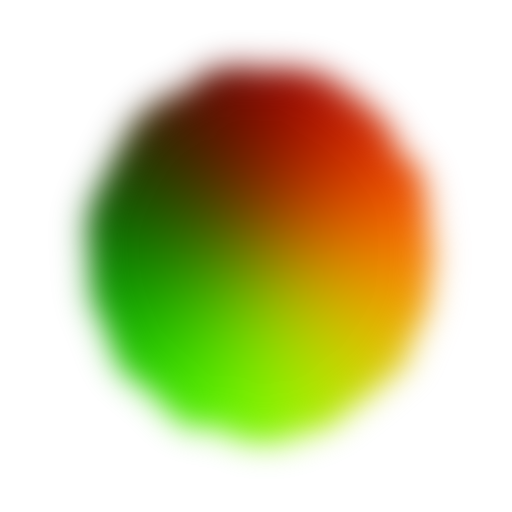
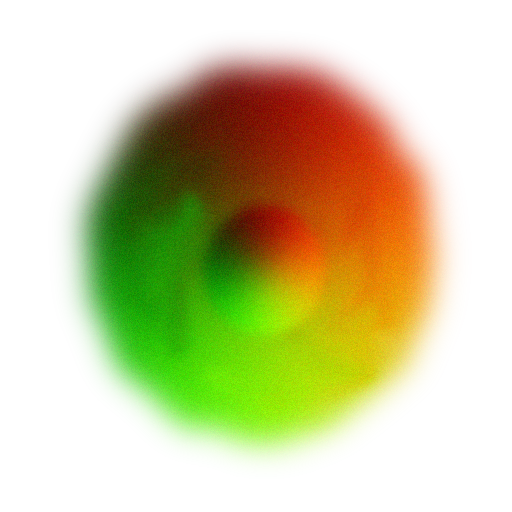
next iter

diff --git a/core/src/com/noname/wp/WaterParadiseEntry.java b/core/src/com/noname/wp/WaterParadiseEntry.java
@@ -11,39 +11,47 @@ import com.badlogic.gdx.graphics.g2d.SpriteBatch;
 import com.badlogic.gdx.graphics.glutils.FrameBuffer;
 import com.badlogic.gdx.graphics.glutils.ShaderProgram;
 import com.noname.wp.PostEffectRenderer.Renderer;
+import com.noname.wp.go.GameObjectsPool;
 import com.noname.wp.go.Meduze;
 import com.noname.wp.render.RenderKit;
 
 public class WaterParadiseEntry extends ApplicationAdapter {
-	private SpriteBatch batch;
-	private Meduze meduzeObj;
 	
-	class MeduzeMapRenderer implements Renderer{
+	private SpriteBatch batch;
+	
+	class GameObjectRenderer implements Renderer{
 		@Override
 		public void prerender(float dt,Batch batch) {
-			meduzeObj.setPosition(Gdx.input.getX(), Gdx.input.getY());
-			meduzeObj.draw(batch);
-			meduzeObj.update(dt);
+			GameObjectsPool.prerender(dt, batch);
 		}
 
 		@Override
 		public void underwater(float dt, Batch batch) {
-			
+			GameObjectsPool.underwater(dt, batch);
 		}
 
 		@Override
 		public void abovewater(float dt, Batch batch) {
-
+			GameObjectsPool.underwater(dt, batch);
 		}	
 	};
 	
-	private MeduzeMapRenderer mmr = new MeduzeMapRenderer(); 
+	private GameObjectRenderer gor = new GameObjectRenderer(); 
 	
 	@Override
 	public void create () {
 		batch = new SpriteBatch();
-		meduzeObj = new Meduze(new Texture("meduze.png"), 300 , 400);
-		PostEffectRenderer.setRenderer(mmr);
+		
+		Meduze meduze = new Meduze(RenderKit.get().getMeduze(), 300 , 400);
+		GameObjectsPool.addGameObject(meduze);
+		meduze = new Meduze(RenderKit.get().getMeduze(), 70 , 250);
+		GameObjectsPool.addGameObject(meduze);
+		meduze = new Meduze(RenderKit.get().getMeduze(), 120 , 390);
+		GameObjectsPool.addGameObject(meduze);
+		meduze = new Meduze(RenderKit.get().getMeduze(), 567 , 234);
+		GameObjectsPool.addGameObject(meduze);
+		
+		PostEffectRenderer.setRenderer(gor);
 	}
 
 	@Override

diff --git a/core/src/com/noname/wp/go/Meduze.java b/core/src/com/noname/wp/go/Meduze.java
@@ -1,32 +1,49 @@
 package com.noname.wp.go;
 
 import com.badlogic.gdx.graphics.Texture;
+import com.badlogic.gdx.graphics.g2d.Batch;
 import com.badlogic.gdx.graphics.g2d.Sprite;
 import com.badlogic.gdx.math.MathUtils;
+import com.badlogic.gdx.math.Vector2;
 
-public class Meduze extends Sprite {
+public class Meduze extends Sprite implements GameObject {
 
-	private final float scaleMin = 0.2f ,scaleFactor = 0.1f ,  scaleSpeed = 70;
+	private float scaleMin = 0.2f ,scaleFactor = 0.1f ,  scaleSpeed = 70;
 	private float time;
+	private Vector2 velocity;
 	
 	public Meduze(Texture tex,float x , float y){
 		super(tex);
-		super.setPosition(x - super.getWidth()/2, y- super.getHeight()/2);
+		super.setPosition(x - super.getWidth()/2, y - super.getHeight()/2);
+		
+		velocity = new Vector2();
+		velocity.x = MathUtils.random(-1, 1);
+		velocity.y = MathUtils.random(-1, 1);
+		scaleSpeed = MathUtils.random(30, 100);
 	}
 	@Override
 	public void setPosition(float x, float y) {
 		
 		super.setPosition(x - super.getWidth()/2, y- super.getHeight()/2);
 	}
-	public void update(float dt){
+	public void update(float dt, Batch batch){
 		
 		if(time <1000)
 			time+=dt;
 		else
 			time = 0;
 		
-		float scale =scaleMin + scaleFactor*Math.abs(MathUtils.sin(scaleSpeed* MathUtils.degRad*time));
+		super.setX(super.getX()+velocity.x*dt);
+		super.setY(super.getY()+velocity.y*dt);
+
+		
+		float scale = scaleMin + scaleFactor*Math.abs(MathUtils.sin(scaleSpeed* MathUtils.degRad*time));
 		super.setScale(scale);
+		super.draw(batch);
+	}
+	@Override
+	public GameObjectType renderType() {
+		return GameObjectType.pre;
 	}
 	
 }

diff --git a/core/src/com/noname/wp/go/GameObjectsPool.java b/core/src/com/noname/wp/go/GameObjectsPool.java
@@ -1,0 +1,52 @@
+package com.noname.wp.go;
+
+import com.badlogic.gdx.graphics.g2d.Batch;
+import com.badlogic.gdx.utils.Array;
+
+public class GameObjectsPool {
+
+	private Array<GameObject> gos;
+	private static GameObjectsPool instance;
+	
+	private static void init() {
+		if(instance == null) 
+			instance = new GameObjectsPool();
+	}
+	public static void prerender(float dt , Batch batch){
+		init();
+		instance.pre(dt, batch);
+	}
+	public static void underwater(float dt , Batch batch){
+		init();
+		instance.under(dt, batch);
+	}
+	public static void abovewater(float dt , Batch batch){
+		init();
+		instance.above(dt, batch);
+	}
+	public static void addGameObject(GameObject go) {
+		init();
+		instance.gos.add(go);
+	}
+	private GameObjectsPool() {
+		gos = new Array<GameObject>();
+	}
+	private void pre(float dt,Batch batch) {
+		for(GameObject go : gos ) {
+			if(go.renderType()==GameObjectType.pre)
+				go.update(dt, batch);
+		}
+	}
+	private void under(float dt,Batch batch) {
+		for(GameObject go : gos ) {
+			if(go.renderType()==GameObjectType.under)
+				go.update(dt, batch);
+		}
+	}
+	private void above(float dt,Batch batch) {
+		for(GameObject go : gos ) {
+			if(go.renderType()==GameObjectType.above)
+				go.update(dt, batch);
+		}
+	}
+}

diff --git a/core/src/com/noname/wp/render/RenderKit.java b/core/src/com/noname/wp/render/RenderKit.java
@@ -9,7 +9,7 @@ public class RenderKit {
 	private static RenderKit instance;
 	private ShaderProgram distortShader;
 	private final String shaderPath = "shaders/";
-	private Texture background;
+	private Texture background , meduze, noise;
 	
 	public static RenderKit get()
 	{
@@ -23,7 +23,9 @@ public class RenderKit {
 		String vertexShader = Gdx.files.internal(shaderPath+"distort_vert.glsl").readString();
 		String fragmentShader = Gdx.files.internal(shaderPath+"distort_frag.glsl").readString();
 		distortShader = new ShaderProgram(vertexShader,fragmentShader);
-		background = new Texture(Gdx.files.internal("sand.png"));
+		background = new Texture(Gdx.files.internal("sand.jpg"));
+		meduze = new Texture(Gdx.files.internal("meduze.png"));
+		noise = new Texture(Gdx.files.internal("noise.png"));
 	}
 	public ShaderProgram getDistortShader() {
 		return distortShader;
@@ -31,5 +33,13 @@ public class RenderKit {
 	public Texture getBackground()
 	{
 		return background;
+	}
+	public Texture getMeduze()
+	{
+		return meduze;
+	}
+	public Texture getNoise()
+	{
+		return noise;
 	}
 }

diff --git a/core/src/com/noname/wp/PostEffectRenderer.java b/core/src/com/noname/wp/PostEffectRenderer.java
@@ -13,7 +13,7 @@ public class PostEffectRenderer {
 
 	private FrameBuffer frameBufferMap;
 	private Renderer renderer;
-	private 	ShaderProgram distortShader;
+	private ShaderProgram distortShader;
 	private static PostEffectRenderer instance;
 	private float timeGlobal = 0;
 	
@@ -66,6 +66,9 @@ public class PostEffectRenderer {
 		timeGlobal += dt;
 		Texture texture  = frameBufferMap.getColorBufferTexture();
 		distortShader.begin();
+		Texture noise = RenderKit.get().getNoise();
+		noise.bind(2);
+		distortShader.setUniformi("u_texture_noise", 2);
 		texture.bind(1);
 		distortShader.setUniformi("u_texture_displacement", 1);
 		Texture backgr = RenderKit.get().getBackground();

diff --git a/core/src/com/noname/wp/go/GameObject.java b/core/src/com/noname/wp/go/GameObject.java
@@ -1,0 +1,11 @@
+package com.noname.wp.go;
+
+import com.badlogic.gdx.graphics.g2d.Batch;
+
+
+
+public interface GameObject {
+	void update(float dt,Batch batch);
+	void setPosition(float x, float y);
+	GameObjectType renderType();
+}

diff --git a/core/src/com/noname/wp/go/GameObjectType.java b/core/src/com/noname/wp/go/GameObjectType.java
@@ -1,0 +1,5 @@
+package com.noname.wp.go;
+
+public enum GameObjectType {
+	pre,under,above
+}
